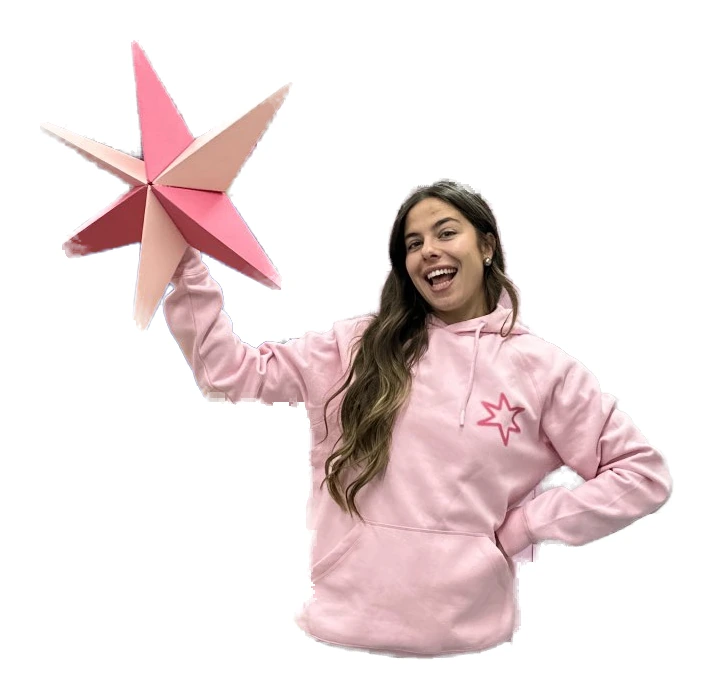
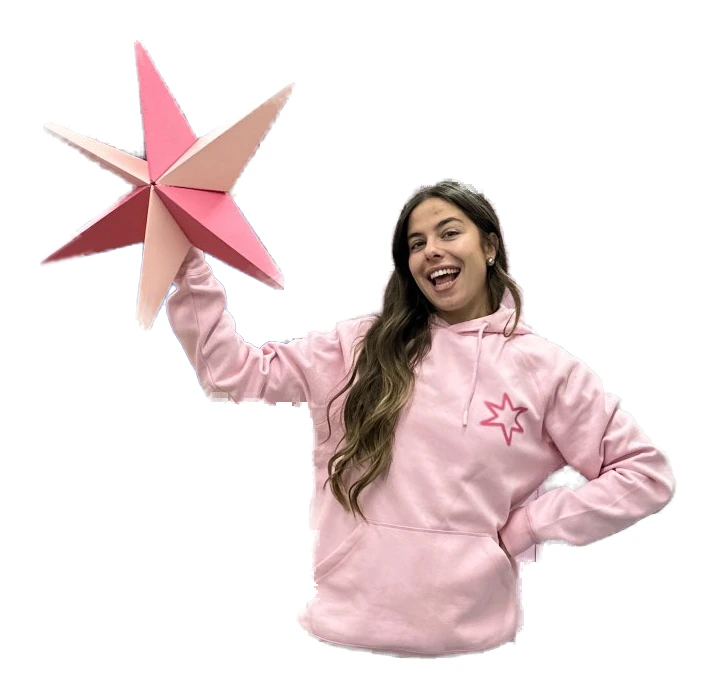
Contacto: sticker con la punta de la estrella completa
Claude-Session: https://claude.ai/code/session_01JztDbguS1tPSbkLqAvB73C

diff --git a/index.html b/index.html
@@ -954,7 +954,7 @@ a.hz-card:hover { transform:translateY(-2px); }
 <section class="contact-section" id="contacto">
   <div class="contact-cloud"></div>
   <div class="contact-inner">
-    <img class="contact-photo" src="/images/andrea-sticker.webp" alt="Andrea, la fundadora de FOCO, sonriendo con una estrella de papel gigante" width="714" height="700" loading="lazy">
+    <img class="contact-photo" src="/images/andrea-sticker.webp" alt="Andrea, la fundadora de FOCO, sonriendo con una estrella de papel gigante" width="717" height="700" loading="lazy">
     <div class="contact-name">Andrea la de FOCO</div>
     <div class="contact-role">Fundadora & Creativa</div>
     <p class="contact-bio">Un día descubrí que <em>mi hobby era tener hobbies</em>. Así que monté un espacio donde todo el mundo pueda venir a probar, crear y pasárselo bien.</p>
